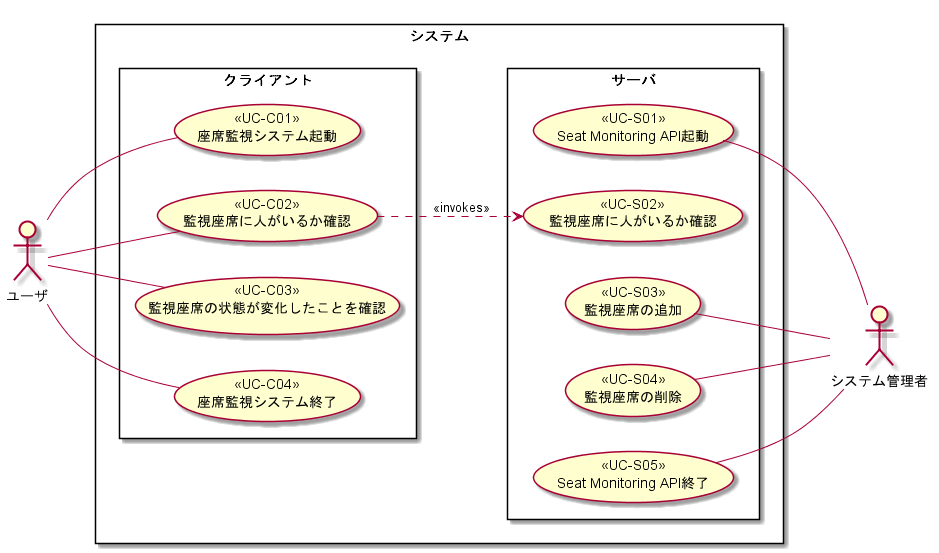
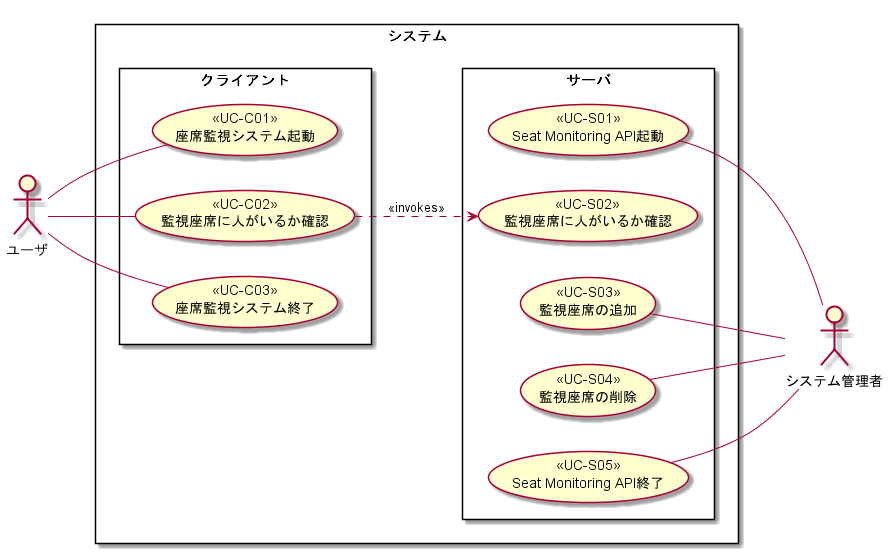
追加機能が新たなユースケースになるわけではなく、既存のユースケースにた対してシステムのサポートが増える形になる。
→追加したユースケースを削除

diff --git a/doc/要件定義/要件定義書.md b/doc/要件定義/要件定義書.md
@@ -203,9 +203,8 @@
 |:--|:--|:--|:--|
 |**クライアント**|||
 |UC-C01|起動|ユーザが起動操作を行うことで起動する。|-|
-|UC-C02|監視座席に人がいるか確認|定期的にUC-S02を呼び出し、監視座席に人がいるかをGUI画面に表示し続け、ユーザは画面を見て確認をする。|-|
-|UC-C03|監視座席の状態が変化したことを確認|UC-C02の結果で、状態の変化があった座席についてアプリが出す通知を確認する|-|
-|UC-C04|終了|ユーザが終了操作を行うことで終了する。|-|
+|UC-C02|監視座席に人がいるか確認|クライアントが定期的にUC-S02を呼び出し、監視座席に人がいるかをGUI画面に表示し続ける。 <br> ユーザは画面を見て、または監視座席の状態が変化したときにクライアントが出す通知を見て確認する。|-|
+|UC-C03|終了|ユーザが終了操作を行うことで終了する。|-|
 |**サーバ**|||
 |UC-S01|起動|システム管理者がサーバを起動することで起動する。|-|
 |UC-S02|監視座席に人がいるか確認|Webカメラで取得した画像から人の顔を検出し、監視座席に人がいるかいないかを判定する。|-|
